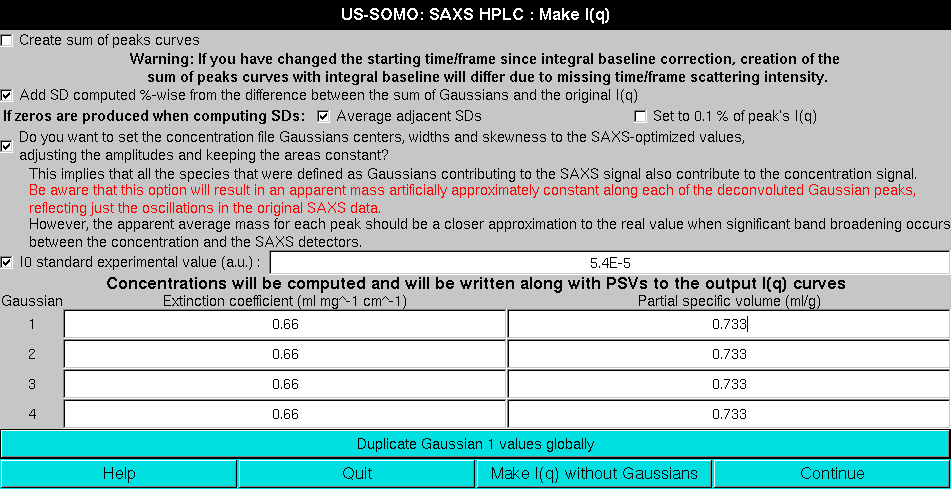
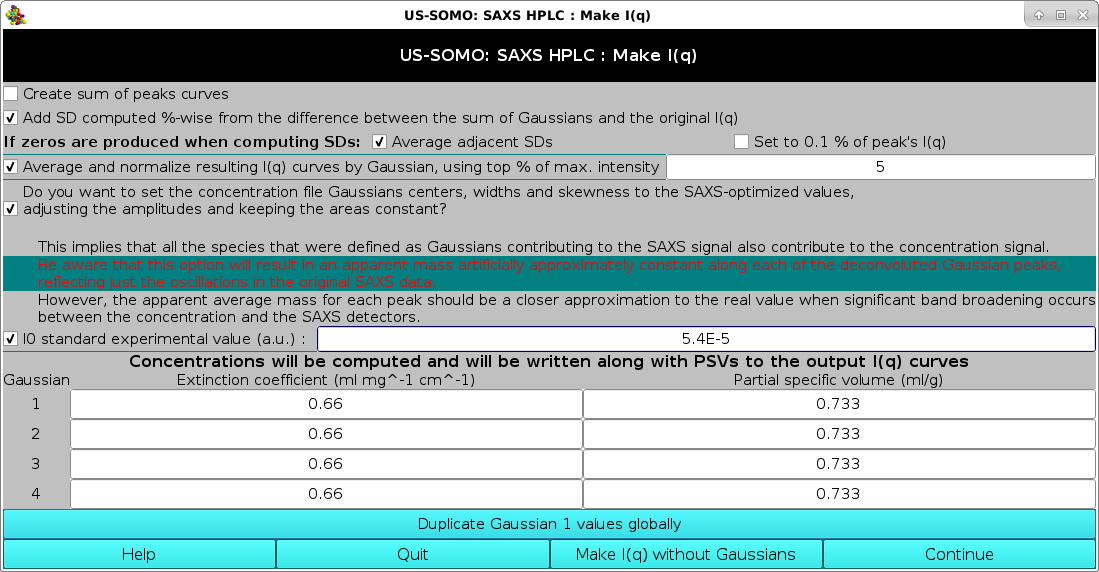
manual changes from Mattia

diff --git a/somo/doc/manual/somo/somo_batch.html b/somo/doc/manual/somo/somo_batch.html
@@ -22,7 +22,7 @@
 <center>
 <h2>
 SOMO - Batch Operations Module:</h2>
-<h3><center>Last updated: April 2015 </center></h3><p>
+<h3><center>Last updated: December 2017 </center></h3><p>
 <p>
 <img SRC="somo-batch.png" ALT="SOMO Batch Operations Module">
 </center>
@@ -37,7 +37,7 @@ This module has been devised to allow the unattended processing of several files
 
 The operations begin by loading the files in the module via the <b><i>Add Files</i></b>
 button. Several files can be loaded at the same time from the same directory location. Files can be of <b>both</b> kinds
-supported by <b>US-SOMO</b>, PDB structures or bead models. If unwanted files have been inadvertently loaded, or they are found later to be not suitable for processing (<i>see below</i>), they can be removed from the list by clicking on them and pressing the <b><i>Remove Selected</i></b> button. Once the list is completed, a single file can be selected by clicking on it, and multiple files can be selected by clicking on them while holding the <i>shift</i> key. <b><i>Select All</i></b> will obviously select all files. The <b><i>Load into SOMO</i></b> and <b><i>Load into SAXS</i></b> buttons are active when exactly one file is selected and will load the file respectively into the SOMO main window or the SAXS/SANS main window. <p>
+supported by <b><i>US-SOMO</i></b>, PDB structures or bead models. If unwanted files have been inadvertently loaded, or they are found later to be not suitable for processing (<i>see below</i>), they can be removed from the list by clicking on them and pressing the <b><i>Remove Selected</i></b> button. Once the list is completed, a single file can be selected by clicking on it, and multiple files can be selected by clicking on them while holding the <i>shift</i> key. <b><i>Select All</i></b> will obviously select all files. The <b><i>Load into SOMO</i></b> and <b><i>Load into SAXS</i></b> buttons are active when exactly one file is selected and will load the file respectively into the SOMO main window or the SAXS/SANS main window. <p>
 
 <hr>
 <center>
@@ -45,7 +45,7 @@ supported by <b>US-SOMO</b>, PDB structures or bead models. If unwanted files ha
 <img SRC="somo-batch2.png" ALT="SOMO Batch Operations Module second panel">
 </center>
 <p>
-In order to allow for the unattended operations, the files must be checked for compliance with the <b>US-SOMO</b> requirements.
+In order to allow for the unattended operations, the files must be checked for compliance with the <b><i>US-SOMO</i></b> requirements.
 In particular, their residues must be defined in the <i>somo.residue</i> lookup table and must contain all atoms. However, starting from the May 2015 release,
 the parsing options have been set by default so to cope with incompleted/not coded residues, by the use of approximate methods (a detailed description of these options can be found <a href=somo_pdb_parsing.html>here</a>). Users can revert to the more stringent <i>List them and stop operation</i> or to the non-recommended <i>List them, skip (entire) residue and proceed</i> options.<br> 
 For bead models, they must match the overlap tolerance as set in the  <a href=somo_hydro.html>Hydrodynamic Computations Options</a> module if the <i>Calculate RB Hydrodynamics SMI</i> checkbox is selected (see below).<br>
@@ -63,8 +63,7 @@ and list the problems that might be found with the files, prompting for correcti
 The sequence of batch operation is then set in the <b>Process selected files:</b> panel:<p>
 The alternative <i>Process Only First Model in PDBs with Multiple Models</i> and the <i>Process All Models in PDBs with Multiple Models</i> clickboxes control if just the first or all models should be processed in PDB files containing multiple models, like those derived from NMR studies. These options are active only if at least a PDB file is among the selected files.<br>
 The <i>Run DMD</i> checkbox will enable <b><i>Discrete Molecular Dynamics (DMD)</b></i> runs to be carried on the selected files according to the DMD settings (see <a href="somo_cluster_dmd.html">here</a>).<p>
-The alternative <i>Build SoMo Bead Model</i>, <i>Build AtoB (Grid) Bead Model</i>, and <i>Build SoMo Overlap Bead Model</i>  dictate which bead modeling
-procedure will be used to generate the models. These options are active only if at least a PDB file is among the selected files.<p>
+The alternative <i>Build SoMo Bead Model</i>, <i>Build SoMo Overlap Bead Model</i> <i>Build AtoB (Grid) Bead Model</i>, and <i>Build vdW Overlap Bead Model</i> dictate which bead modeling procedure will be used to generate the models. These options are active only if at least a PDB file is among the selected files.<p>
 
 Next comes a series of checkboxes relating to SAXS (and in the future SANS) computations (<b>be sure to check the SAXS options currently selected using the <i>Saxs Options</i> button at the bottom of this panel before launching the computations</b>):<p>
 <i>Compute SAXS I(q)</i> will allow the computation of the scattering intensity <i>I</i>(<i>q</i>) vs the momentum transfer <i>q</i> curves for each model (see <a href="somo_saxs.html">here</a>). <br>
@@ -75,11 +74,8 @@ Next comes a series of checkboxes relating to SAXS (and in the future SANS) comp
 <i>Compute I(q) average curves</i> and <i>Compute I(q) std deviation curves</i> become active only if the <i>Combined SAXS Results File</i> checkbox is enabled, and will append to the csv-formatted file extra line(s) containing average and standard deviation values calculated for all the I(<i>q</i>) curves. The <i>Only save average</i> checkbox will enable saving only the average curve.<br>
 <i>Compute P(r) average curves</i> and <i>Compute P(r) std deviation curves</i> become active only if the <i>Combined SAXS Results File</i> checkbox is enabled, and will append to the csv-formatted file extra line(s) containing average and standard deviation values calculated for all the P(<i>r</i>) curves. <p>
 
-The alternative <i>Calculate RB Hydrodynamics SMI</i> and <i>Calculate RB Hydrodynamics Zeno</i> checkboxes enable the computation of the hydrodynamic parameters after the bead model building phase is completed using one of the two methods available within <b>US-SOMO</b>. If the <i>Build SoMo Overlap Bead Model</i> checkbox has been selected above, or if even a single bead model among those selected has the "-so_ovlp" suffix in its filename, only the <i>Calculate RB Hydrodynamics Zeno</i> checkbox will be available.<br>
-Selecting the <i>Combined Hydro Results File:</i> checkbox will produce a single hydrodynamic computations results' file, with at the end the
-averages of all parameters, instead of separate files for each model uploaded or generated. A filename for the single results'
-file must be provided in the dedicated space. Otherwise, each file will be named using the general <b>US-SOMO</b> rules and the
-prefixes present in the main program panel.<br>
+The alternative <i>Calculate RB Hydrodynamics SMI</i> and <i>Calculate RB Hydrodynamics Zeno</i> checkboxes enable the computation of the hydrodynamic parameters after the bead model building phase is completed using one of the four methods available within <b><i>US-SOMO</i></b>. If the <i>Build SoMo Overlap Bead Model</i> or the <i>Build vdW Overlap Bead Model</i> checkboxes have been selected above, or if even a single bead model among those selected has the "-so_ovlp" or the "-vdw" suffix in its filename, only the <i>Calculate RB Hydrodynamics Zeno</i> checkbox will be available.<br>
+Selecting the <i>Combined Hydro Results File:</i> checkbox will produce a single hydrodynamic computations results' file, with at the end the averages of all parameters, instead of separate files for each model uploaded or generated. A filename for the single results' file must be provided in the dedicated space. Otherwise, each file will be named using the general <b><i>US-SOMO</i></b> rules and the prefixes present in the main program panel.<br>
 A subset of parameters can be saved in another file in a comma-separated format by selecting the <i>Save parameters to file</i>
 checkbox. The parameters to be saved can be selected from the dedicated module (see <a href="somo_save.html">here</a>) accessed
 by pressing the <b><i>Select Parameters to be Saved</i></b> button.<p>
@@ -92,7 +88,7 @@ by pressing the <b><i>Select Parameters to be Saved</i></b> button.<p>
 <p>
 
 When all the preliminary operations have been completed, the batch operation on <span style="color:#CC0000"><b>your computer</b></span> can be launched by pressing the <b><i>Start</i></b> button, and the progress will be reported in the progress bar and in the right-side progress window. Operations can be aborted at any time by pressing the <b><i>Stop</i></b> button.<p>
-For more demanding computations (and for <b>all</b> the DMD computations), the operations can be transferred to high-end, (super)computing centers using the  <a href="somo_cluster.html"><b><i>Cluster</i></b></a> button. The <b><i>Saxs Options</i></b> button will instead open the <a href="somo_saxs_options.html">Saxs Options</a> panel.
+For more demanding computations (and for <b>all</b> the DMD computations), the operations can be transferred to high-end, (super)computing centers using the  <a href="somo_cluster.html"><b><i>Cluster</i></b></a> button. The <b><i>SAXS/SANS Options</i></b> button will instead open the <a href="somo_saxs_options.html">SAS Options</a> panel.
 
 <p>
 
@@ -113,7 +109,7 @@ distribution. <br><a href=copyright.html>Copyright &copy; notice</a>.<br><br> Th
 </font>
 <p>
 <font face="helvetica" size="-1">
-Last modified on April 16. 2015.
+Last modified on December 18, 2017.
 </font>
 </body>
 </html>

diff --git a/somo/doc/manual/somo/saxs_hplc_ciq.html b/somo/doc/manual/somo/saxs_hplc_ciq.html
@@ -22,7 +22,7 @@
 <center>
 <h2>
 SOMO HPLC-SAXS Module Make I(q):</h2></center>
-<h3><center>Last updated: April 2016 </center></h3><p>
+<h3><center>Last updated: January 2018 </center></h3><p>
 
 <p><center>
 <img SRC="somo-HPLC-SAXS_Make_Iq.png" ALT="SOMO HPLC-SAXS Make I(q) panel">
@@ -31,7 +31,7 @@ SOMO HPLC-SAXS Module Make I(q):</h2></center>
 
 This pop-up panel will appear when the <b><i>Make I(q)</i></b> button is pressed in the main <b><i>HPLC-SAXS</i></b> module. <p>
 
-Two main options are present in this panel:<p>
+Three main options are present in this panel:<p>
 
 <ul>
 
@@ -54,6 +54,15 @@ The extra line reads <i>If zeros are produced when computing SDs:</i> and then o
 <li>
 <i>Set to 0.1% of peak's I(q)</i>. The corresponding <i>I(q)</i> points will have 0.1% SD.<p>
 </ul>
+<p>
+
+The third option was recently added (January 2018):
+<ul>
+<li>
+The checkbox <i>Average and normalize resulting I(q) curves by Gaussian, using top % of max. intensity"</i>, allow to automatically select a number of frames whose intensity (as defined by the associated Gaussian) is within a % value of the top frame intensity, as defined in its associated field (default: <b>unchecked</b>, with <b>5%</b> as the limiting value). All frames selected according to this criterion for each Gaussian-defined peak are first normalized (if an associated concentration file is present; see below), and then averaged. This feature, introduced for the January 2018 release, makes it quite simple to automatically generate averaged datasets after a Gaussian decomposition, without the need to manually check the resulting chromatograms to decide which frames to include in the averages.
+</ul>
+<p>
+
 
 If a concentration chromatogram has been associated to the SAXS data, an additional series of options are presented:
 
@@ -69,7 +78,7 @@ However, the apparent average mass for each peak should be a closer approximatio
 <i>I0 standard experimental value (a.u.):</i>. A normalization factor from a standard sample to be associated with the data can be also entered here. If this checkbox is checked, its value will be associated in each resulting <i>I(q)</i> vs. <i>q</i> curve (default: <b>unchecked</b>).<p>
 
 <li>
-Finally, a calculated concentration can be assigned to each of the resulting <i>I(q)</i> vs. <i>q</i> curves. This is done by entering an extinction coefficient (or a <i>dn/dc</i>) for each Gaussian. In addition, a partial specific volume (<i>psv</i>) value, needed for the computation of the &lt;<i>M</i>><i><sub>w</sub></i>, &lt;<i>M</i>&#47;<i>L</i>><i><sub>w/z</sub></i>, and &lt;<i>M</i>&#47;<i>A</i>><i><sub>w/z</sub></i> by Guinier analysis in the main <b>US-SOMO <i>SAS module</i></b>, can be also entered here. The module will present as many fields as the Gaussians used to decomposed the data. If all the Gaussians represent a species with the same extinction coefficient (or <i>dn/dc</i>) and <i>psv</i>, the values need to be entered only once in the 1st Gaussian fields, and then they can be propagated to all the other fields by pressing the <b><i>Duplicate Gaussian 1 values globally</i></b> button. The concentration value will be used when the <b><i>Normalize</b></i> button in the main <b>HPLC-SAXS</b> module is pressed after dataset selection.<p>
+Finally, a calculated concentration can be associated to each of the resulting <i>I(q)</i> vs. <i>q</i> curves. This is done by entering an extinction coefficient (or a <i>dn/dc</i>) for each Gaussian. In addition, a partial specific volume (<i>psv</i>) value, needed for the computation of the &lt;<i>M</i>><i><sub>w</sub></i>, &lt;<i>M</i>&#47;<i>L</i>><i><sub>w/z</sub></i>, and &lt;<i>M</i>&#47;<i>A</i>><i><sub>w/z</sub></i> by Guinier analysis in the main <b>US-SOMO <i>SAS module</i></b>, can be also entered here. The module will present as many fields as the Gaussians used to decomposed the data. If all the Gaussians represent a species with the same extinction coefficient (or <i>dn/dc</i>) and <i>psv</i>, the values need to be entered only once in the 1st Gaussian fields, and then they can be propagated to all the other fields by pressing the <b><i>Duplicate Gaussian 1 values globally</i></b> button. The concentration value will be used either by the automatic frames-to-be-averaged selector described above, or when the <b><i>Normalize</b></i> button in the main <b>HPLC-SAXS</b> module is pressed after dataset selection.<p>
 </ul>
 
 It is also possible to back-generate an <i>I(q)</i> vs. <i>q</i> set without using the Gaussian decomposition by pressing the <b><i>Make I(q) without Gaussians</i></b> button.<p>
@@ -95,7 +104,7 @@ distribution. <br><a href=copyright.html>Copyright &copy; notice</a>.<br><br> Th
 </font>
 <p>
 <font face="helvetica" size="-1">
-Last modified on April 18, 2016.
+Last modified on January 5, 2018.
 </font>
 </body>
 </html>

diff --git a/somo/doc/manual/somo/somo_saxs.html b/somo/doc/manual/somo/somo_saxs.html
@@ -32,7 +32,7 @@ SOMO - SAXS/SANS (SAS) Simulation Module:</h2>
 </center>
 <p>
 Small-Angle X-ray or Neutron Scattering (SAXS or SANS) <i>I(q)</i> vs. <i>q</i> curves, and pairwise distance distribution
-curves <i>P(r)</i> vs. <i>r</i>, can be generated by this  module from either a PDB file or a bead model. The <b>SOMO-SAS</b> module is still under development, but several advanced features are already available.<p>
+curves <i>P(r)</i> vs. <i>r</i>, can be generated by this  module from either a PDB file or a bead model. Additionally, <i>P(r)</i> curves can be generated via the <a href=saxs_ift.html>indirect Fourier transform</a> from an experimental <i>I(q)</i> curve..<p>
 The module window is accessed from the <b>US-SOMO</b> main window by pressing the <b><i>SAXS/SANS Functions</i></b> button. If either a PDB or a bead model file are loaded in the <b>US-SOMO</b> main window, it will be automatically exported to the <b>SAXS/SANS module</b>, and listed in the <i>PDB Filename</i> (alternatively, <i>Bead Model Filename</i>) field. If no files were selected in the main <b>US-SOMO</b> window, this field will be empty.<p>
 In order to properly compute the  <i>I(q)</i> vs. <i>q</i> and <i>P(r)</i> vs. <i>r</i> curves, the module utilizes the  <a href=
 "somo-2.png">atom definition</a> (default: <i>somo.atom</i>), <a href="somo-hybrid.png">hybridization</a> (default: <i>somo.hybrid</i>) and <a href="somo-saxs_coeff1.png">SAXS coefficients</a> (default: <I>somo.saxs_atoms</i>) tables. Different tables can be selected by pressing the <b><i>Load Atom Definition File</i></b>, <b><i>Load Hybridization File</i></b>, and <b><i>Load SAXS Coefficients File</i></b> buttons. See the <a href="somo.html">main help</a> for further explanations on the content and use of these tables.<p>
@@ -67,7 +67,7 @@ Once a file has been selected (see above for a list of compatible file types), t
 <img SRC="somo-SAXS_SANS_SAXS_curve.png" ALT="SOMO SAXS I(q) Expt. SAXS curve example">
 </center>
 <p>
-Portions of the graphs can be zoomed in by selecting them with the mouse while pressing the central button:
+Portions of the graphs can be zoomed in by selecting them with the mouse while pressing the left button:
 <center>
 <p>
 <img SRC="somo-SAXS_SANS_SAXS_curve1.png" ALT="SOMO SAXS I(q) Expt. SAXS curve zoom example">
@@ -79,7 +79,7 @@ The top horizontal and right vertical scroll bars allow the visualization of oth
 Since the <i>P(r)</i> vs. <i>r</i> can be optionally normalized by the ratio between the area under the <i>P(r)</i> curve and the molecular weight of the structure (or bead model), a value for the molecular weight must be entered when loading standard GNOM files. A pop-up window will ask to do so:
 <center>
 <p>
-<img SRC="somo-SAXS_SANS_p_r_Set_MW.png" ALT="SOMO SAXS GNOM set MW">
+<img SRC="ift_process_mw.png" ALT="SOMO SAXS GNOM set MW">
 </center>
 <p>
 The user will be then asked if she/he wants to save the entered molecular weight value in the GNOM file:
@@ -323,7 +323,7 @@ distribution. <br><a href=copyright.html>Copyright &copy; notice</a>.<br><br> Th
 </font>
 <p>
 <font face="helvetica" size="-1">
-Last modified on January 10, 2018
+Last modified on January 11, 2018
 </font>
 </body>
 </html>

diff --git a/somo/doc/manual/somo/somo_save.html b/somo/doc/manual/somo/somo_save.html
@@ -23,6 +23,9 @@
 <h2>
 SOMO - Select Parameters to be Saved Module:</h2>
 <p>
+<h3><center>Last updated: December 2017 </center></h3><p>
+<p>
+
 <img SRC="somo-save.png" ALT="SOMO Parameters to be Saved Screen">
 </center>
 <p>
@@ -85,7 +88,8 @@ Relaxation times, tau(5) [ns]<br>
 Relaxation times, tau(m) [ns]<br>
 Relaxation times, tau(h) [ns]<br>
 Maximun extensions [X, Y, Z] [nm]</b> (<i>X, Y, Z coordinates saved</i>)<br>
-<b>Axial ratios [ X:Z, X:Y, Y:Z ]</b>
+<b>Axial ratios [ X:Z, X:Y, Y:Z ]<br>
+Processing time [s]</b>
 <p>
 The <b><i>Solvent conditions:</i></b> screen contains the parameters as set in the <a href=somo_hydro.html><b><i>
 Hydrodynamic Calculations</i></b></a> options module:<br>
@@ -119,7 +123,7 @@ distribution. <br><a href=copyright.html>Copyright &copy; notice</a>.<br><br> Th
 </font>
 <p>
 <font face="helvetica" size="-1">
-Last modified on February 1, 2010.
+Last modified on December 18, 2017.
 </font>
 </body>
 </html>
